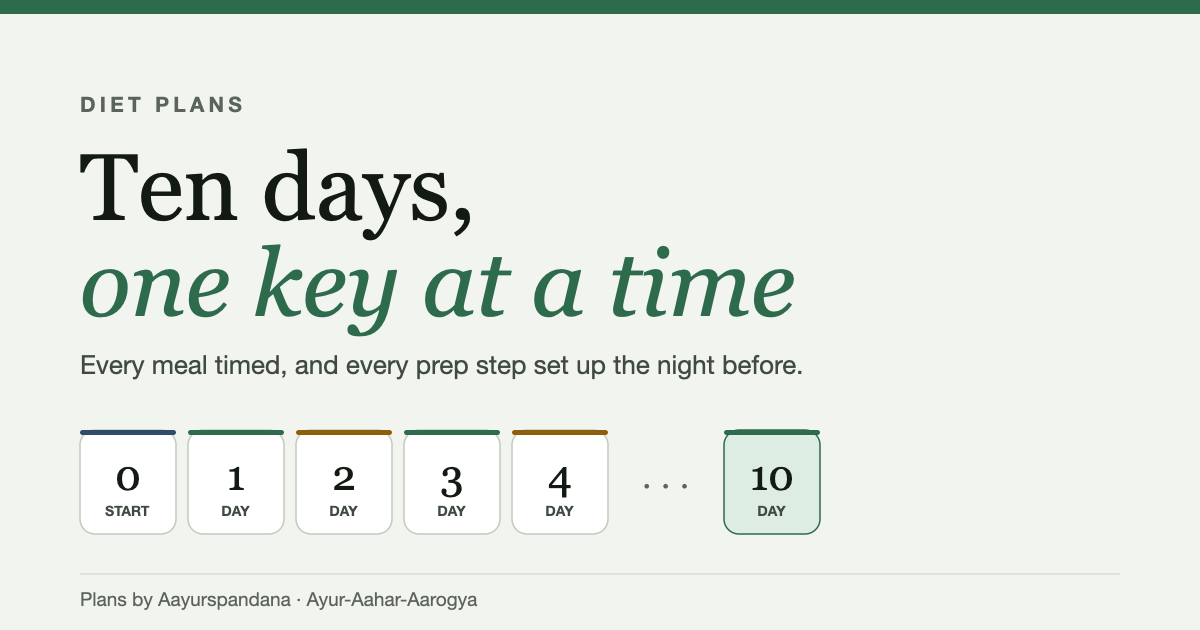
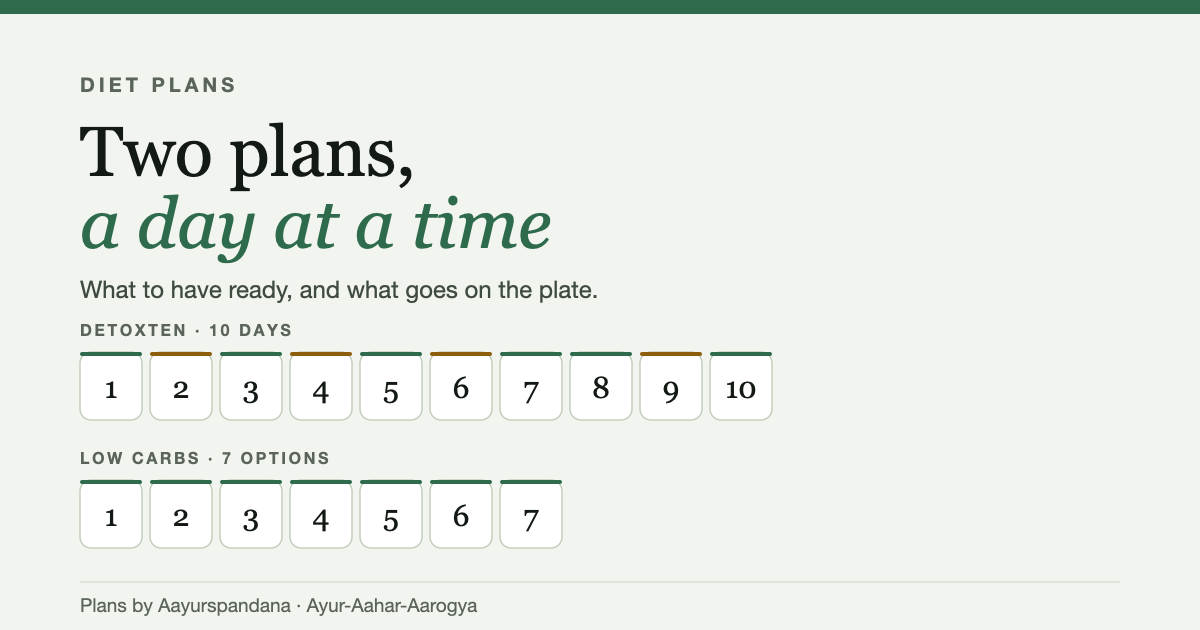
Refresh the share card and preview text for two plans

diff --git a/index.html b/index.html
@@ -3,7 +3,7 @@
 <head>
 <meta charset="utf-8">
 <meta name="viewport" content="width=device-width, initial-scale=1, viewport-fit=cover">
-<meta name="description" content="Ten-day plans worked through day by day: every meal timed, and every prep step set up the night before.">
+<meta name="description" content="Two plans worked a day at a time: what to have ready, and what goes on the plate.">
 <meta name="color-scheme" content="light dark">
 <meta name="theme-color" content="#F2F5EF" media="(prefers-color-scheme: light)">
 <meta name="theme-color" content="#111510" media="(prefers-color-scheme: dark)">
@@ -13,15 +13,15 @@
 <meta property="og:site_name" content="Diet Plans">
 <meta property="og:url" content="https://jayagt.github.io/diet-plans/">
 <meta property="og:title" content="Diet Plans">
-<meta property="og:description" content="Ten-day plans worked through day by day: every meal timed, and every prep step set up the night before.">
+<meta property="og:description" content="Two plans worked a day at a time: what to have ready, and what goes on the plate.">
 <meta property="og:image" content="https://jayagt.github.io/diet-plans/share-card.png">
 <meta property="og:image:type" content="image/png">
 <meta property="og:image:width" content="1200">
 <meta property="og:image:height" content="630">
-<meta property="og:image:alt" content="Diet plans — a row of numbered day keys, start through to day ten.">
+<meta property="og:image:alt" content="Diet Plans — two rows of numbered keys, ten days for DetoxTen and seven options for Low Carbs.">
 <meta name="twitter:card" content="summary_large_image">
 <meta name="twitter:title" content="Diet Plans">
-<meta name="twitter:description" content="Ten-day plans worked through day by day: every meal timed, and every prep step set up the night before.">
+<meta name="twitter:description" content="Two plans worked a day at a time: what to have ready, and what goes on the plate.">
 <meta name="twitter:image" content="https://jayagt.github.io/diet-plans/share-card.png">
 <title>Diet Plans</title>
 <link rel="preconnect" href="https://fonts.gstatic.com" crossorigin>
